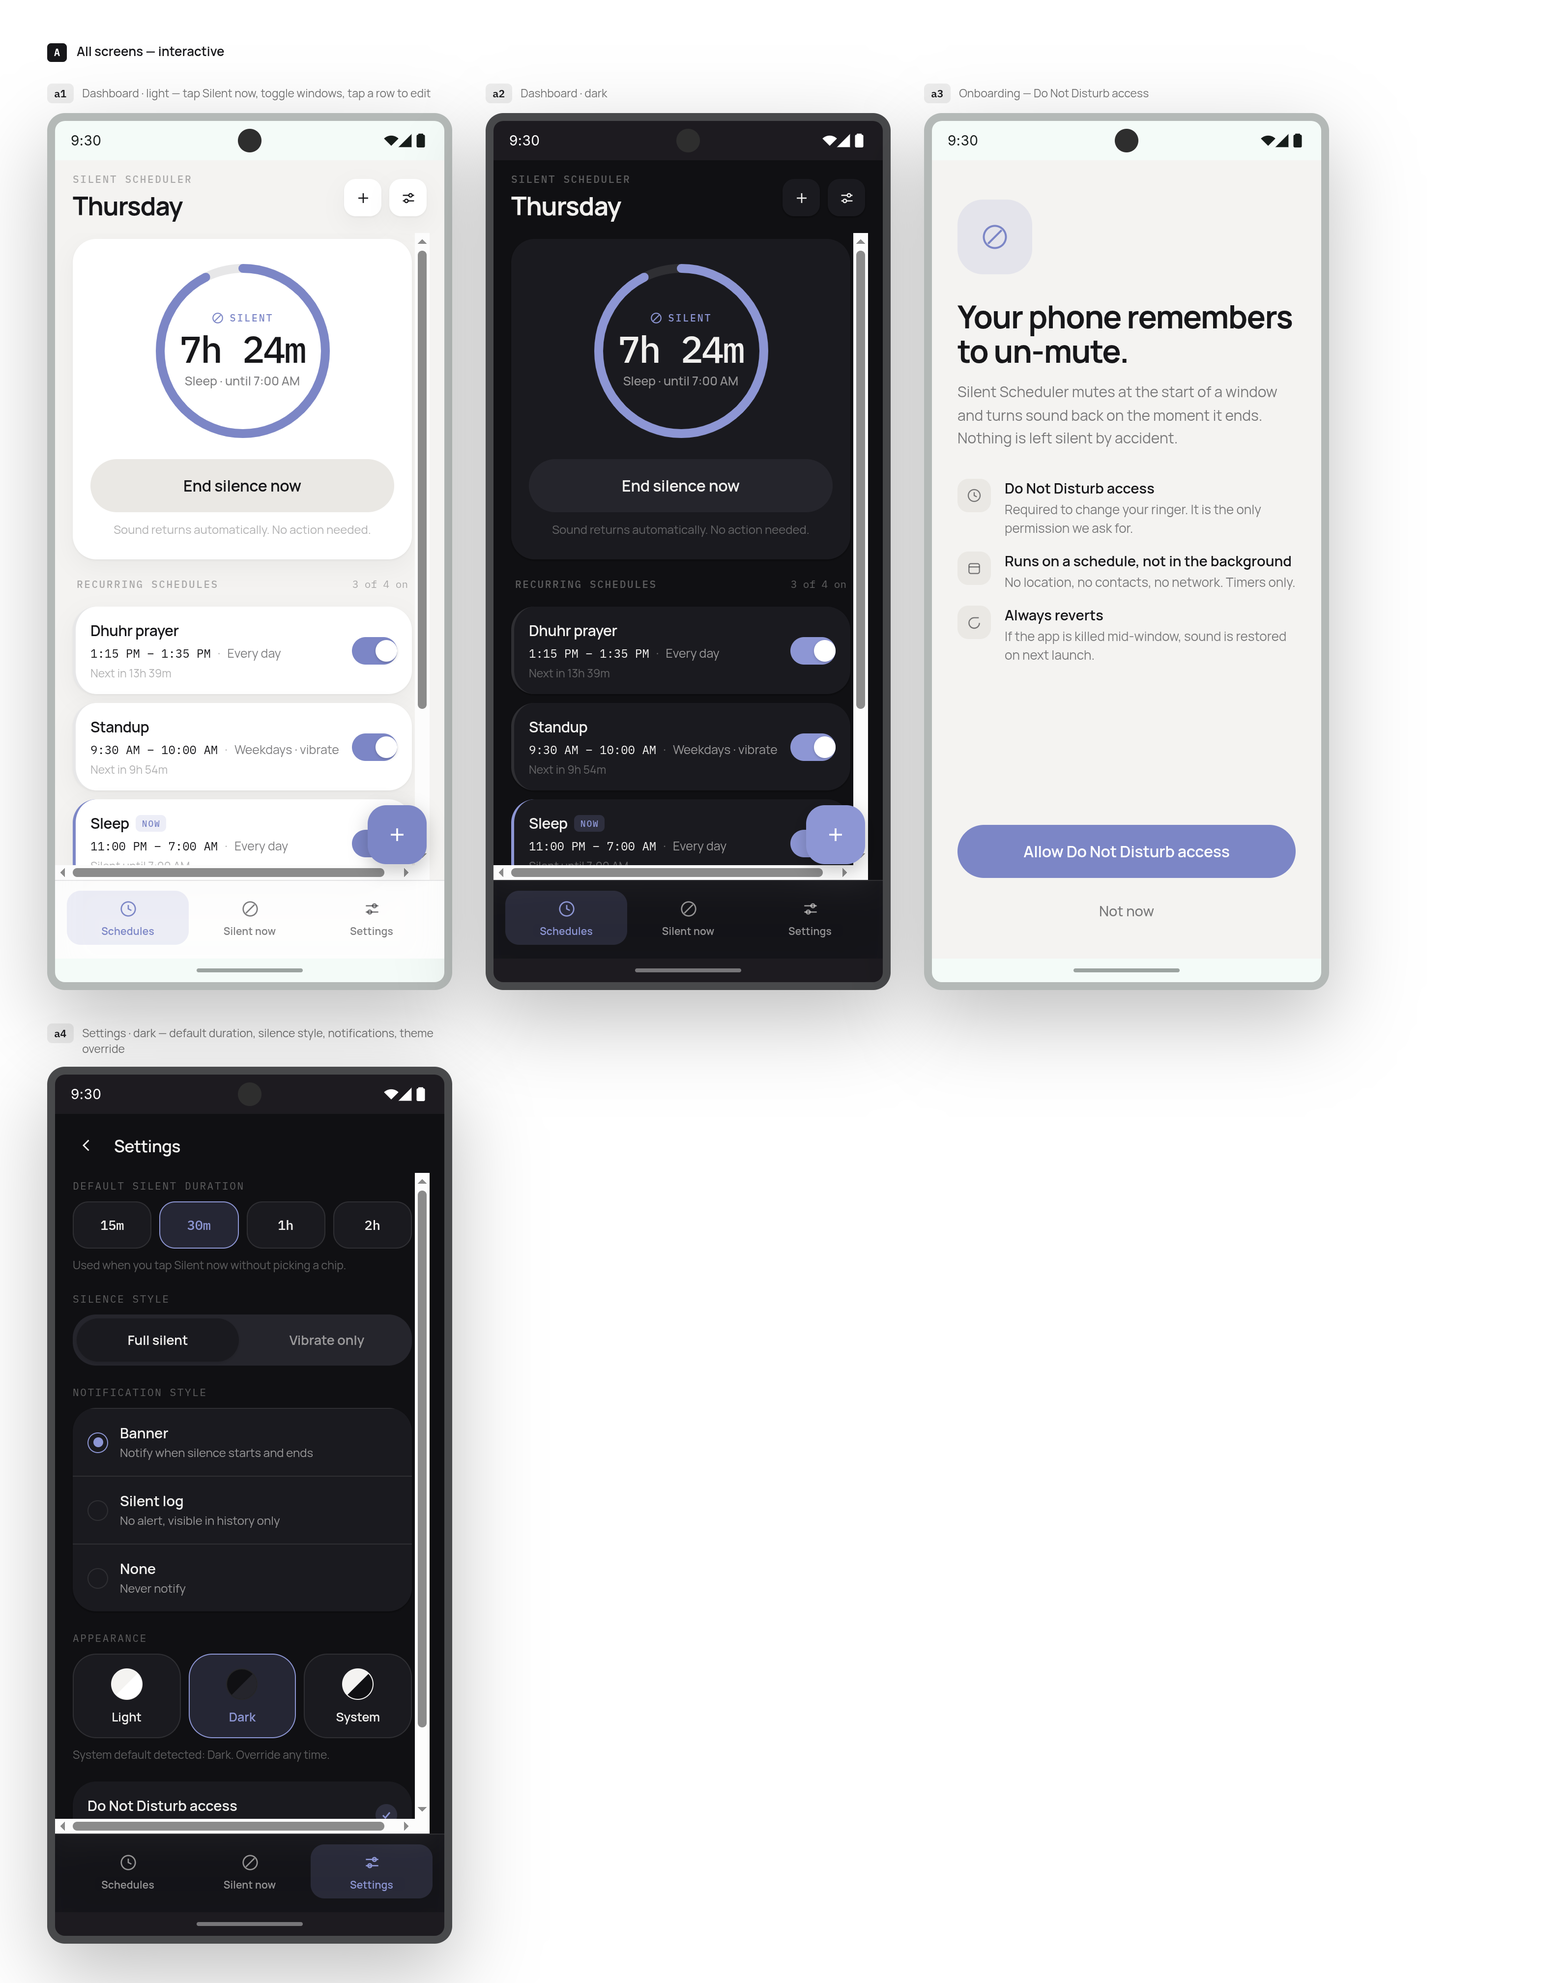
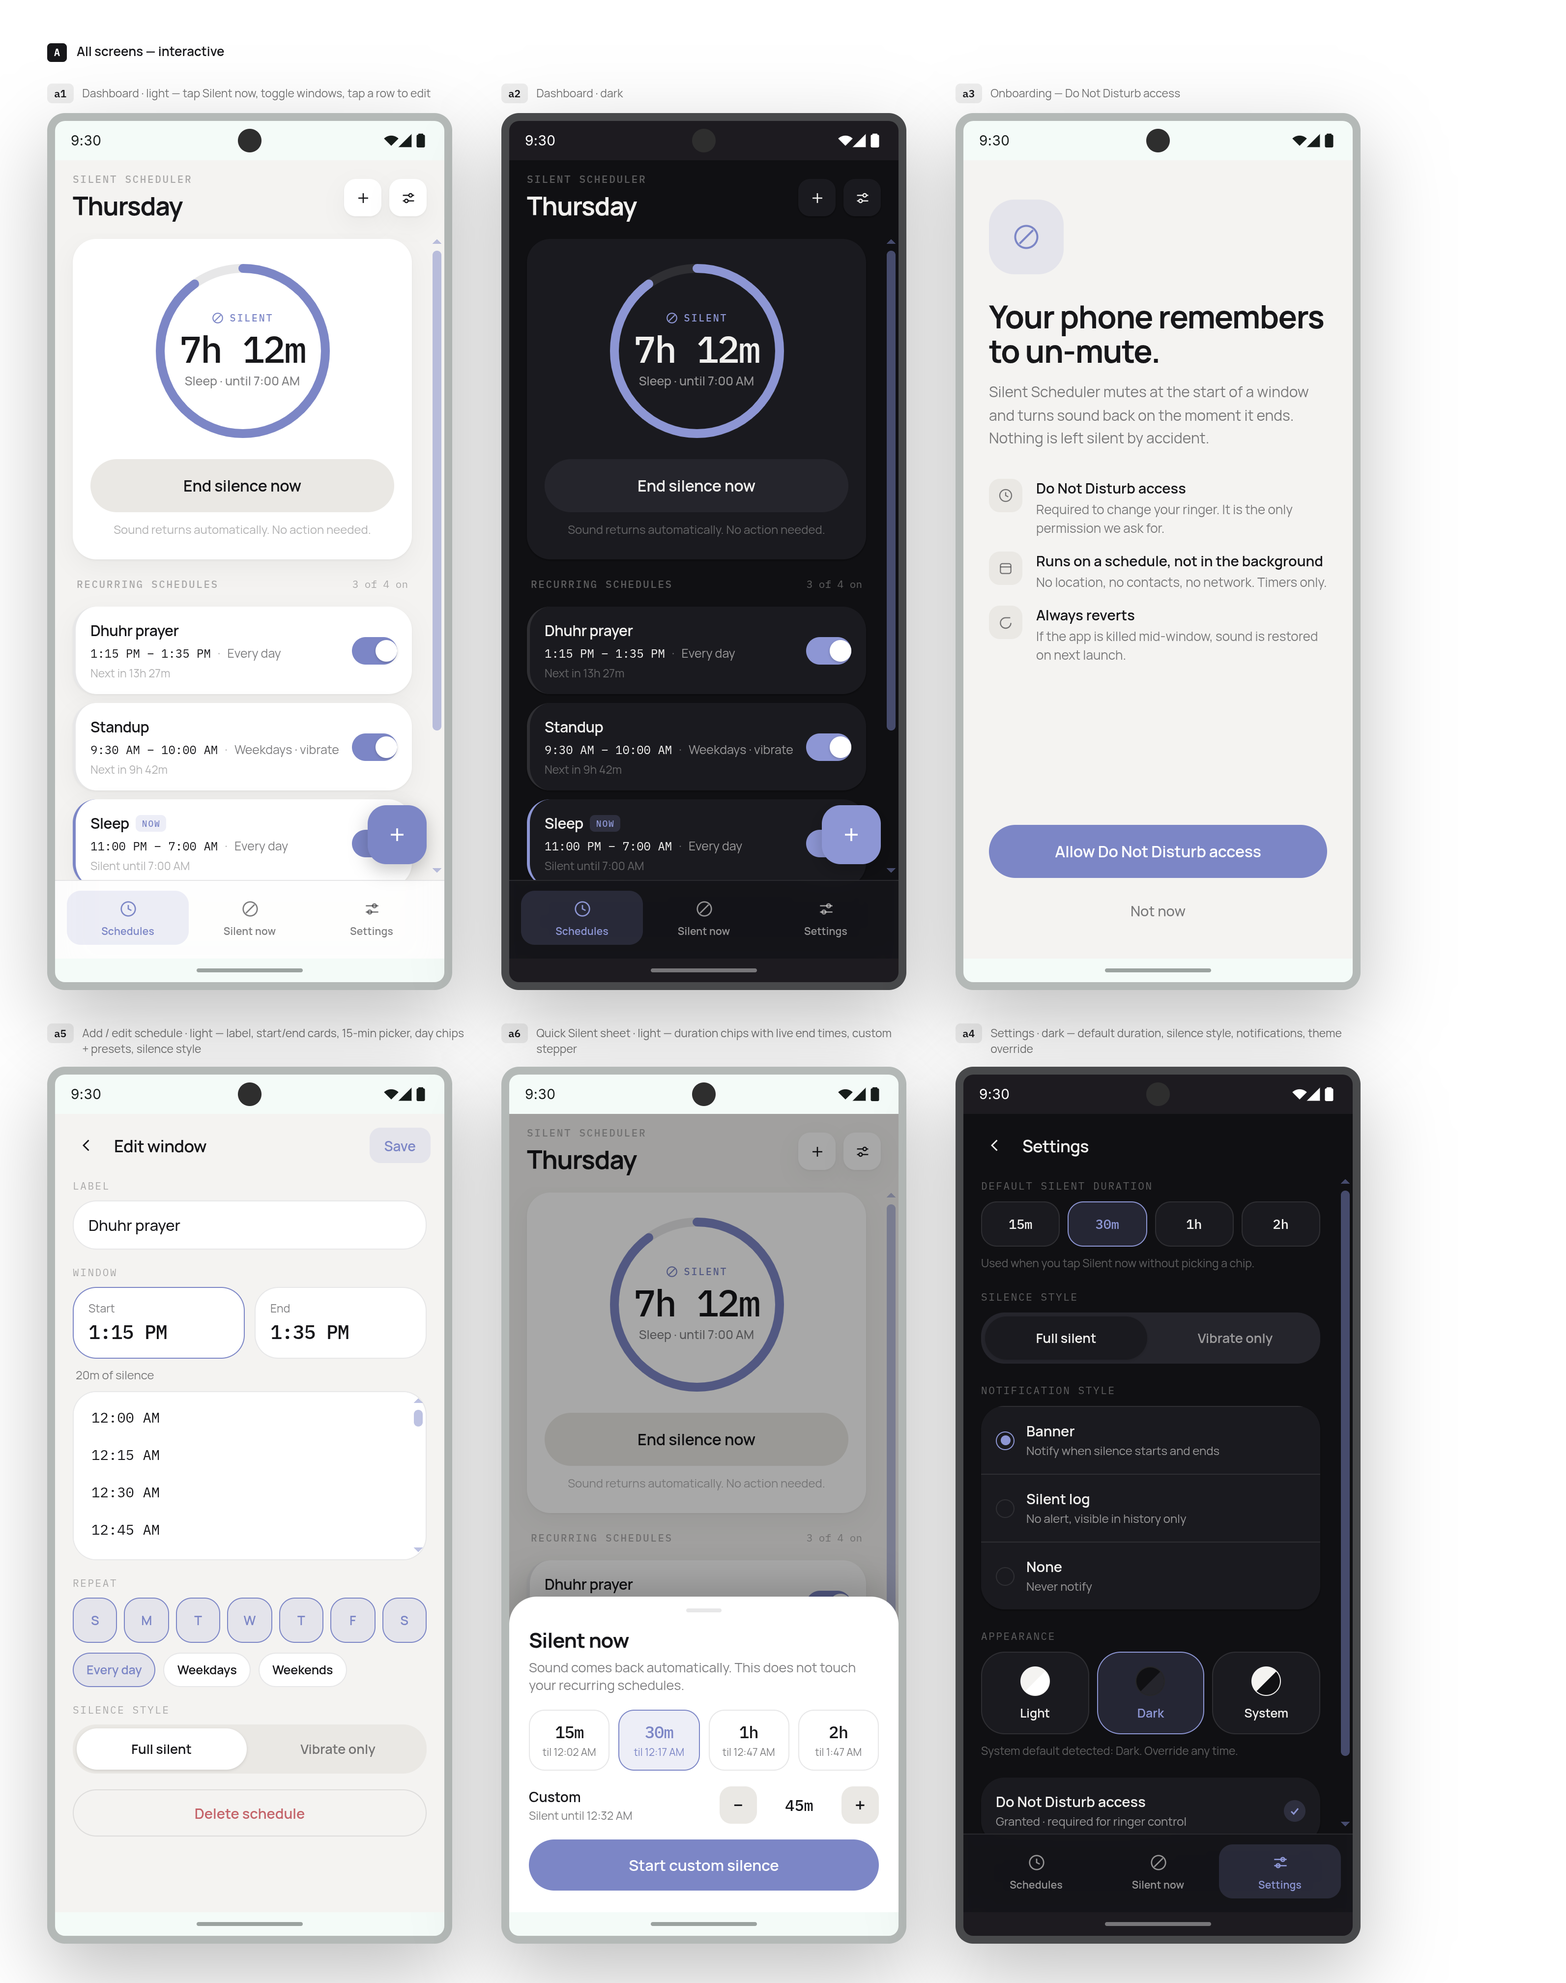
Add Add/Edit Schedule screen and fix theme contrast tokens (step 5)
Functional but unstyled Add/Edit screen (label, start/end time picker
dialogs, day-of-week repeat chips, enabled toggle) wired into the
step 4 debug harness for add and edit-in-place, since the real
Dashboard nav doesn't exist until step 7. Design for this screen
wasn't provided; revisit styling once it is.

Also fixes onPrimary/onSecondaryContainer, left unset since the
original scaffold — Material3's baseline defaults assumed a different
primary tone than ours, which showed up on-device as the Switch thumb
going a muddy dark color in dark mode instead of white.

Verified on-device: add, edit-in-place, and re-persistence after a
force-stop all work through the real screen (not just the debug
shortcut). Also re-committing the design reference PNG — the first
commit caught it mid-sync from a smaller, truncated copy.

diff --git a/app/src/main/kotlin/com/ringfence/silentscheduler/schedule/ui/ScheduleEditScreen.kt b/app/src/main/kotlin/com/ringfence/silentscheduler/schedule/ui/ScheduleEditScreen.kt
@@ -1,0 +1,193 @@
+package com.ringfence.silentscheduler.schedule.ui
+
+import androidx.compose.foundation.layout.Column
+import androidx.compose.foundation.layout.Row
+import androidx.compose.foundation.layout.Spacer
+import androidx.compose.foundation.layout.fillMaxSize
+import androidx.compose.foundation.layout.fillMaxWidth
+import androidx.compose.foundation.layout.height
+import androidx.compose.foundation.layout.padding
+import androidx.compose.foundation.layout.safeDrawingPadding
+import androidx.compose.foundation.lazy.LazyRow
+import androidx.compose.foundation.lazy.items
+import androidx.compose.foundation.shape.RoundedCornerShape
+import androidx.compose.material3.Button
+import androidx.compose.material3.ExperimentalMaterial3Api
+import androidx.compose.material3.FilterChip
+import androidx.compose.material3.MaterialTheme
+import androidx.compose.material3.OutlinedTextField
+import androidx.compose.material3.Surface
+import androidx.compose.material3.Switch
+import androidx.compose.material3.Text
+import androidx.compose.material3.TextButton
+import androidx.compose.material3.TimePicker
+import androidx.compose.material3.rememberTimePickerState
+import androidx.compose.runtime.Composable
+import androidx.compose.runtime.getValue
+import androidx.compose.runtime.mutableIntStateOf
+import androidx.compose.runtime.mutableStateOf
+import androidx.compose.runtime.remember
+import androidx.compose.runtime.setValue
+import androidx.compose.ui.Alignment
+import androidx.compose.ui.Modifier
+import androidx.compose.ui.unit.dp
+import androidx.compose.ui.window.Dialog
+import com.ringfence.silentscheduler.schedule.domain.Schedule
+import java.time.DayOfWeek
+import java.util.UUID
+
+/**
+ * Build-order step 5. Not yet styled to the Claude Design source — that screen
+ * wasn't included in the images provided. Functionally complete (label, start/end
+ * time pickers, day-of-week repeat, enabled toggle); revisit visuals once the real
+ * design is available (see DESIGN_NOTES.md).
+ */
+@Composable
+fun ScheduleEditScreen(
+    initial: Schedule?,
+    onSave: (Schedule) -> Unit,
+    onCancel: () -> Unit,
+    modifier: Modifier = Modifier
+) {
+    var label by remember { mutableStateOf(initial?.label.orEmpty()) }
+    var startMinuteOfDay by remember { mutableIntStateOf(initial?.startMinuteOfDay ?: 9 * 60) }
+    var endMinuteOfDay by remember { mutableIntStateOf(initial?.endMinuteOfDay ?: 10 * 60) }
+    var repeatDays by remember { mutableStateOf(initial?.repeatDays ?: emptySet()) }
+    var isEnabled by remember { mutableStateOf(initial?.isEnabled ?: true) }
+
+    var editingStart by remember { mutableStateOf(false) }
+    var editingEnd by remember { mutableStateOf(false) }
+
+    Column(
+        modifier = modifier
+            .fillMaxSize()
+            .safeDrawingPadding()
+            .padding(16.dp)
+    ) {
+        TextButton(onClick = onCancel) {
+            Text("Cancel")
+        }
+
+        Text(
+            text = if (initial == null) "Add schedule" else "Edit schedule",
+            style = MaterialTheme.typography.titleMedium
+        )
+
+        Spacer(Modifier.height(16.dp))
+
+        OutlinedTextField(
+            value = label,
+            onValueChange = { label = it },
+            label = { Text("Label") },
+            modifier = Modifier.fillMaxWidth()
+        )
+
+        Spacer(Modifier.height(16.dp))
+
+        Row(modifier = Modifier.fillMaxWidth()) {
+            TextButton(onClick = { editingStart = true }) {
+                Text("Start: ${formatMinuteOfDay(startMinuteOfDay)}")
+            }
+            TextButton(onClick = { editingEnd = true }) {
+                Text("End: ${formatMinuteOfDay(endMinuteOfDay)}")
+            }
+        }
+
+        Spacer(Modifier.height(16.dp))
+
+        Text("Repeat", style = MaterialTheme.typography.labelLarge)
+        Spacer(Modifier.height(4.dp))
+        LazyRow {
+            items(DayOfWeek.entries.toList()) { day ->
+                FilterChip(
+                    modifier = Modifier.padding(end = 4.dp),
+                    selected = day in repeatDays,
+                    onClick = {
+                        repeatDays = if (day in repeatDays) repeatDays - day else repeatDays + day
+                    },
+                    label = { Text(day.name.take(1)) }
+                )
+            }
+        }
+
+        Spacer(Modifier.height(16.dp))
+
+        Row(verticalAlignment = Alignment.CenterVertically) {
+            Text("Enabled", modifier = Modifier.weight(1f))
+            Switch(checked = isEnabled, onCheckedChange = { isEnabled = it })
+        }
+
+        Spacer(Modifier.height(24.dp))
+
+        Button(
+            onClick = {
+                onSave(
+                    Schedule(
+                        id = initial?.id ?: UUID.randomUUID().toString(),
+                        label = label.ifBlank { "Untitled" },
+                        startMinuteOfDay = startMinuteOfDay,
+                        endMinuteOfDay = endMinuteOfDay,
+                        repeatDays = repeatDays,
+                        isEnabled = isEnabled
+                    )
+                )
+            },
+            shape = RoundedCornerShape(percent = 50),
+            modifier = Modifier.fillMaxWidth()
+        ) {
+            Text("Save")
+        }
+    }
+
+    if (editingStart) {
+        TimeOfDayPickerDialog(
+            initialMinuteOfDay = startMinuteOfDay,
+            onDismiss = { editingStart = false },
+            onConfirm = { startMinuteOfDay = it; editingStart = false }
+        )
+    }
+    if (editingEnd) {
+        TimeOfDayPickerDialog(
+            initialMinuteOfDay = endMinuteOfDay,
+            onDismiss = { editingEnd = false },
+            onConfirm = { endMinuteOfDay = it; editingEnd = false }
+        )
+    }
+}
+
+@OptIn(ExperimentalMaterial3Api::class)
+@Composable
+private fun TimeOfDayPickerDialog(
+    initialMinuteOfDay: Int,
+    onDismiss: () -> Unit,
+    onConfirm: (Int) -> Unit
+) {
+    val state = rememberTimePickerState(
+        initialHour = initialMinuteOfDay / 60,
+        initialMinute = initialMinuteOfDay % 60,
+        is24Hour = false
+    )
+    Dialog(onDismissRequest = onDismiss) {
+        Surface(shape = RoundedCornerShape(28.dp)) {
+            Column(
+                modifier = Modifier.padding(24.dp),
+                horizontalAlignment = Alignment.CenterHorizontally
+            ) {
+                TimePicker(state = state)
+                Spacer(Modifier.height(8.dp))
+                Row {
+                    TextButton(onClick = onDismiss) { Text("Cancel") }
+                    TextButton(onClick = { onConfirm(state.hour * 60 + state.minute) }) { Text("OK") }
+                }
+            }
+        }
+    }
+}
+
+private fun formatMinuteOfDay(minuteOfDay: Int): String {
+    val hour24 = minuteOfDay / 60
+    val minute = minuteOfDay % 60
+    val amPm = if (hour24 < 12) "AM" else "PM"
+    val hour12 = if (hour24 % 12 == 0) 12 else hour24 % 12
+    return "%d:%02d %s".format(hour12, minute, amPm)
+}

diff --git a/app/src/main/kotlin/com/ringfence/silentscheduler/schedule/ui/ScheduleDebugScreen.kt b/app/src/main/kotlin/com/ringfence/silentscheduler/schedule/ui/ScheduleDebugScreen.kt
@@ -1,5 +1,6 @@
 package com.ringfence.silentscheduler.schedule.ui
 
+import androidx.compose.foundation.clickable
 import androidx.compose.foundation.layout.Column
 import androidx.compose.foundation.layout.Row
 import androidx.compose.foundation.layout.Spacer
@@ -18,15 +19,19 @@ import androidx.compose.material3.TextButton
 import androidx.compose.runtime.Composable
 import androidx.compose.runtime.collectAsState
 import androidx.compose.runtime.getValue
+import androidx.compose.runtime.mutableStateOf
+import androidx.compose.runtime.remember
+import androidx.compose.runtime.setValue
 import androidx.compose.ui.Alignment
 import androidx.compose.ui.Modifier
 import androidx.compose.ui.unit.dp
 import androidx.hilt.navigation.compose.hiltViewModel
+import com.ringfence.silentscheduler.schedule.domain.Schedule
 
 /**
- * Build-order step 4 verification harness only — not the real Dashboard (step 7) or
- * Add/Edit Schedule screen (step 5), and not styled to the Claude Design source.
- * Exists purely to prove DataStore CRUD persists correctly after a force-close.
+ * Build-order step 4/5 verification harness only — not the real Dashboard (step 7),
+ * and not styled to the Claude Design source. Exists to prove DataStore CRUD works
+ * end to end, including through the real Add/Edit Schedule screen.
  */
 @Composable
 fun ScheduleDebugScreen(
@@ -35,6 +40,29 @@ fun ScheduleDebugScreen(
     viewModel: ScheduleDebugViewModel = hiltViewModel()
 ) {
     val schedules by viewModel.schedules.collectAsState()
+
+    // null = not editing, Schedule(...) = editing that row, a placeholder empty
+    // Schedule id "" = adding new. Simplified stand-in for the real Dashboard -> Add/
+    // Edit navigation that step 7 will introduce.
+    var editingTarget by remember { mutableStateOf<Schedule?>(null) }
+    var isAddingNew by remember { mutableStateOf(false) }
+
+    if (isAddingNew || editingTarget != null) {
+        ScheduleEditScreen(
+            initial = editingTarget,
+            onSave = {
+                viewModel.save(it)
+                isAddingNew = false
+                editingTarget = null
+            },
+            onCancel = {
+                isAddingNew = false
+                editingTarget = null
+            },
+            modifier = modifier
+        )
+        return
+    }
 
     Column(
         modifier = modifier
@@ -47,14 +75,14 @@ fun ScheduleDebugScreen(
         }
 
         Text(
-            text = "Step 4 debug: Schedule DataStore CRUD",
+            text = "Step 4/5 debug: Schedule CRUD",
             style = MaterialTheme.typography.titleMedium
         )
 
         Spacer(Modifier.height(8.dp))
 
-        Button(onClick = { viewModel.addTestSchedule() }) {
-            Text("Add test schedule")
+        Button(onClick = { isAddingNew = true }) {
+            Text("+ Add schedule")
         }
 
         Spacer(Modifier.height(16.dp))
@@ -64,6 +92,7 @@ fun ScheduleDebugScreen(
                 Row(
                     modifier = Modifier
                         .fillMaxWidth()
+                        .clickable { editingTarget = schedule }
                         .padding(vertical = 4.dp),
                     verticalAlignment = Alignment.CenterVertically
                 ) {

diff --git a/app/src/main/kotlin/com/ringfence/silentscheduler/schedule/ui/ScheduleDebugViewModel.kt b/app/src/main/kotlin/com/ringfence/silentscheduler/schedule/ui/ScheduleDebugViewModel.kt
@@ -9,14 +9,12 @@ import kotlinx.coroutines.flow.SharingStarted
 import kotlinx.coroutines.flow.StateFlow
 import kotlinx.coroutines.flow.stateIn
 import kotlinx.coroutines.launch
-import java.time.DayOfWeek
-import java.util.UUID
 import javax.inject.Inject
 
 /**
- * Build-order step 4 verification harness only — exercises DataStore CRUD from a
+ * Build-order step 4/5 verification harness only — exercises DataStore CRUD from a
  * throwaway UI so persistence-after-force-close can be checked on-device before the
- * real Add/Edit Schedule screen (step 5) and Dashboard (step 7) exist.
+ * real Dashboard (step 7) exists.
  */
 @HiltViewModel
 class ScheduleDebugViewModel @Inject constructor(
@@ -26,19 +24,9 @@ class ScheduleDebugViewModel @Inject constructor(
     val schedules: StateFlow<List<Schedule>> = repository.observeSchedules()
         .stateIn(viewModelScope, SharingStarted.WhileSubscribed(5_000), emptyList())
 
-    fun addTestSchedule() {
+    fun save(schedule: Schedule) {
         viewModelScope.launch {
-            val suffix = (System.currentTimeMillis() % 1000).toString()
-            repository.addOrUpdateSchedule(
-                Schedule(
-                    id = UUID.randomUUID().toString(),
-                    label = "Test schedule $suffix",
-                    startMinuteOfDay = 13 * 60 + 15,
-                    endMinuteOfDay = 13 * 60 + 35,
-                    repeatDays = setOf(DayOfWeek.MONDAY, DayOfWeek.WEDNESDAY, DayOfWeek.FRIDAY),
-                    isEnabled = true
-                )
-            )
+            repository.addOrUpdateSchedule(schedule)
         }
     }
 

diff --git a/app/src/main/kotlin/com/ringfence/silentscheduler/core/theme/Theme.kt b/app/src/main/kotlin/com/ringfence/silentscheduler/core/theme/Theme.kt
@@ -5,10 +5,19 @@ import androidx.compose.material3.MaterialTheme
 import androidx.compose.material3.darkColorScheme
 import androidx.compose.material3.lightColorScheme
 import androidx.compose.runtime.Composable
+import androidx.compose.ui.graphics.Color
 
+// onPrimary/onSecondaryContainer aren't derivable from the sampled surface colors —
+// they're set explicitly here because Material3's baseline defaults assume a
+// different primary tone than ours and pick the wrong contrast color otherwise (seen
+// on-device: the Switch thumb turned a muddy dark color in dark mode because
+// unset onPrimary fell back to Material's baseline dark-mode default instead of the
+// white the design actually uses in both themes).
 private val LightColors = lightColorScheme(
     primary = AccentLight,
+    onPrimary = Color.White,
     secondaryContainer = AccentSoftLight,
+    onSecondaryContainer = AccentLight,
     background = BackgroundLight,
     surface = SurfaceLight,
     onBackground = OnSurfaceLight,
@@ -19,7 +28,9 @@ private val LightColors = lightColorScheme(
 
 private val DarkColors = darkColorScheme(
     primary = AccentDark,
+    onPrimary = Color.White,
     secondaryContainer = AccentSoftDark,
+    onSecondaryContainer = AccentDark,
     background = BackgroundDark,
     surface = SurfaceDark,
     onBackground = OnSurfaceDark,

diff --git a/app/src/main/kotlin/com/ringfence/silentscheduler/MainActivity.kt b/app/src/main/kotlin/com/ringfence/silentscheduler/MainActivity.kt
@@ -11,6 +11,7 @@ import androidx.compose.foundation.layout.Column
 import androidx.compose.foundation.layout.fillMaxSize
 import androidx.compose.foundation.layout.padding
 import androidx.compose.foundation.layout.safeDrawingPadding
+import androidx.compose.material3.MaterialTheme
 import androidx.compose.material3.Surface
 import androidx.compose.material3.Text
 import androidx.compose.material3.TextButton
@@ -47,7 +48,10 @@ class MainActivity : ComponentActivity() {
         enableEdgeToEdge()
         setContent {
             RingfenceTheme {
-                Surface(modifier = Modifier.fillMaxSize()) {
+                Surface(
+                    modifier = Modifier.fillMaxSize(),
+                    color = MaterialTheme.colorScheme.background
+                ) {
                     RingfenceRoot()
                 }
             }
